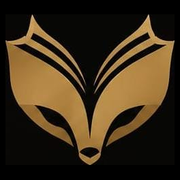
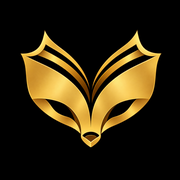
Emblema novo da raposa em todos os icones e na arte da pagina inicial; rastro dourado do mouse ao fundo (como no Sinal/Ruido), fora da leitura, do estudio e de telas de toque

diff --git a/public/tema.js b/public/tema.js
@@ -37,4 +37,79 @@
       try { localStorage.setItem('el:tema', tema); } catch (e) { /* so nesta visita */ }
     });
   });
+
+  // Rastro do mouse (mesmo efeito do Sinal/Ruido, em dourado): uma grade invisivel de
+  // quadradinhos atras da pagina que acende perto do cursor e se apaga aos poucos.
+  // Fica fora da leitura e do estudio, de telas de toque e de quem pede menos movimento.
+  document.addEventListener('DOMContentLoaded', function () {
+    if (/^\/(ler|estudio)(\.html)?(\/|$)/.test(location.pathname)) return;
+    if (!window.matchMedia || !matchMedia('(hover: hover) and (pointer: fine)').matches) return;
+    if (matchMedia('(prefers-reduced-motion: reduce)').matches) return;
+
+    var PASSO = 14, RAIO = 100;
+    var tela = document.createElement('canvas');
+    tela.className = 'rastro-mouse';
+    tela.setAttribute('aria-hidden', 'true');
+    document.body.insertBefore(tela, document.body.firstChild);
+    var ctx = tela.getContext('2d');
+    if (!ctx) return;
+    var cols = 0, lins = 0, luz = new Float32Array(0), quadro = null;
+
+    function medir() {
+      tela.width = window.innerWidth;
+      tela.height = window.innerHeight;
+      cols = Math.ceil(tela.width / PASSO);
+      lins = Math.ceil(tela.height / PASSO);
+      luz = new Float32Array(cols * lins);
+    }
+
+    function acender(x, y) {
+      var cx = Math.floor(x / PASSO), cy = Math.floor(y / PASSO), alcance = Math.ceil(RAIO / PASSO);
+      for (var dy = -alcance; dy <= alcance; dy++) {
+        for (var dx = -alcance; dx <= alcance; dx++) {
+          var c = cx + dx, l = cy + dy;
+          if (c < 0 || l < 0 || c >= cols || l >= lins) continue;
+          var d = Math.hypot(dx * PASSO, dy * PASSO);
+          if (d > RAIO) continue;
+          var i = l * cols + c;
+          luz[i] = Math.max(luz[i], 1 - d / RAIO);
+        }
+      }
+    }
+
+    // o dourado vem do --accent do tema atual (#d9a94a no escuro, #9c6c14 no claro)
+    var corTema = null, cor = '217, 169, 74';
+    function lerCor() {
+      if (corTema === tema) return;
+      corTema = tema;
+      var hex = getComputedStyle(raiz).getPropertyValue('--accent').trim();
+      var m = /^#([0-9a-f]{2})([0-9a-f]{2})([0-9a-f]{2})$/i.exec(hex);
+      if (m) cor = parseInt(m[1], 16) + ', ' + parseInt(m[2], 16) + ', ' + parseInt(m[3], 16);
+    }
+
+    function desenhar() {
+      ctx.clearRect(0, 0, tela.width, tela.height);
+      lerCor();
+      var aceso = false;
+      for (var l = 0; l < lins; l++) {
+        for (var c = 0; c < cols; c++) {
+          var i = l * cols + c, v = luz[i];
+          if (v <= 0.01) continue;
+          aceso = true;
+          luz[i] = Math.max(0, v - 0.045);
+          var lado = 2 + v * 3;
+          ctx.fillStyle = 'rgba(' + cor + ', ' + (v * 0.5) + ')';
+          ctx.fillRect(c * PASSO + (PASSO - lado) / 2, l * PASSO + (PASSO - lado) / 2, lado, lado);
+        }
+      }
+      quadro = aceso ? requestAnimationFrame(desenhar) : null;
+    }
+
+    window.addEventListener('mousemove', function (e) {
+      acender(e.clientX, e.clientY);
+      if (!quadro) quadro = requestAnimationFrame(desenhar);
+    }, { passive: true });
+    window.addEventListener('resize', medir);
+    medir();
+  });
 })();

diff --git a/public/extra.css b/public/extra.css
@@ -585,6 +585,7 @@ dialog.el-dialogo.largo{width:min(860px,96vw)}
 .topo-acoes{position:absolute;top:1rem;right:1rem;display:flex;gap:.5rem;align-items:center;z-index:5}
 .tema-bt{width:2.4rem;height:2.4rem;border-radius:50%;border:1px solid var(--line-strong);background:var(--panel);color:var(--text);font-size:1.05rem;line-height:1;cursor:pointer}
 .tema-bt:hover{border-color:var(--accent);color:var(--accent)}
+.rastro-mouse{position:fixed;inset:0;width:100%;height:100%;z-index:-1;pointer-events:none}
 .topo-entrar{display:inline-flex;align-items:center;height:2.4rem;padding:0 1.1rem;border-radius:999px;background:var(--accent);color:#0a0700;font-size:.72rem;font-weight:600;letter-spacing:.14em;text-transform:uppercase;text-decoration:none}
 .topo-entrar:hover{filter:brightness(1.08)}
 .topo-criar{display:inline-flex;align-items:center;height:2.4rem;padding:0 1rem;border-radius:999px;border:1px solid var(--line-strong);color:var(--text);font-size:.72rem;font-weight:600;letter-spacing:.14em;text-transform:uppercase;text-decoration:none}
